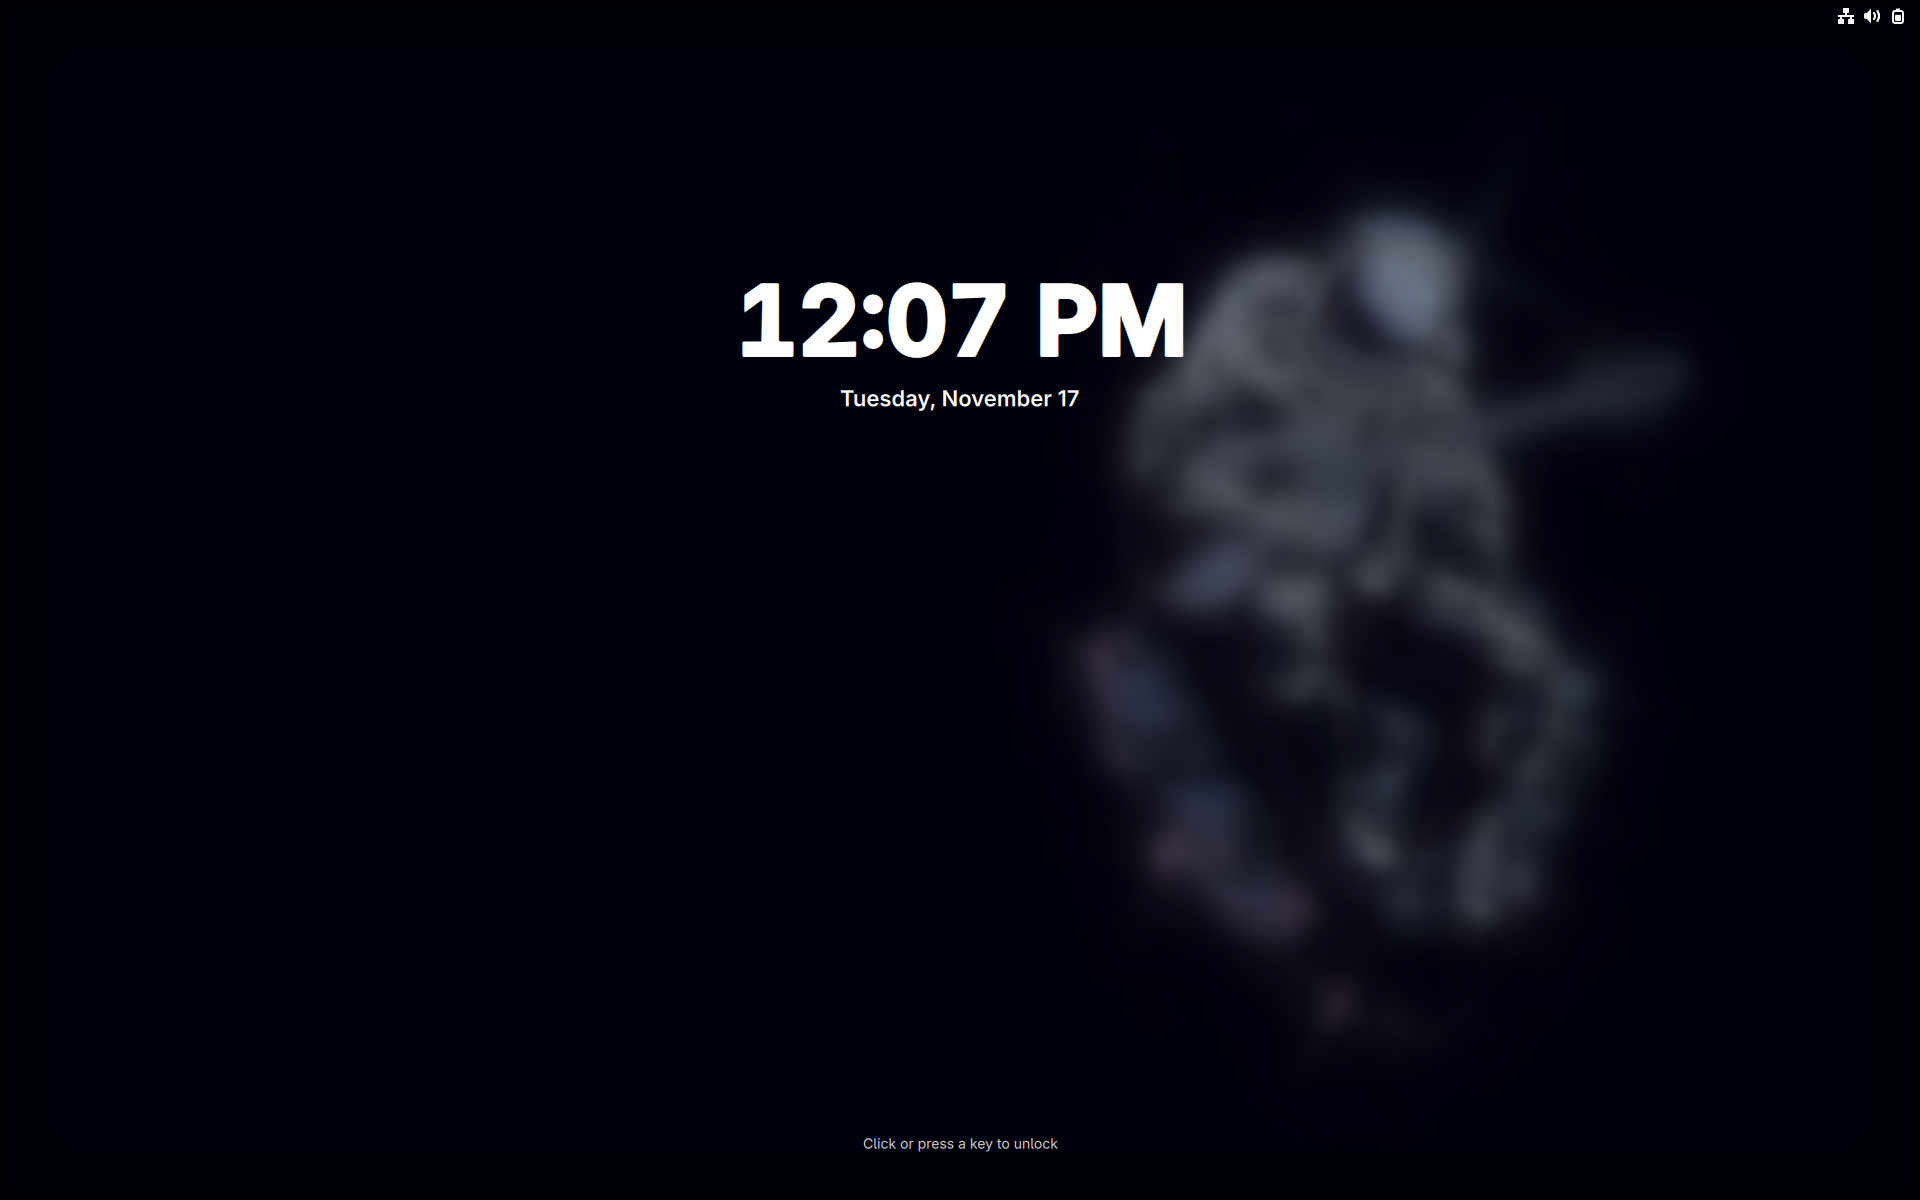
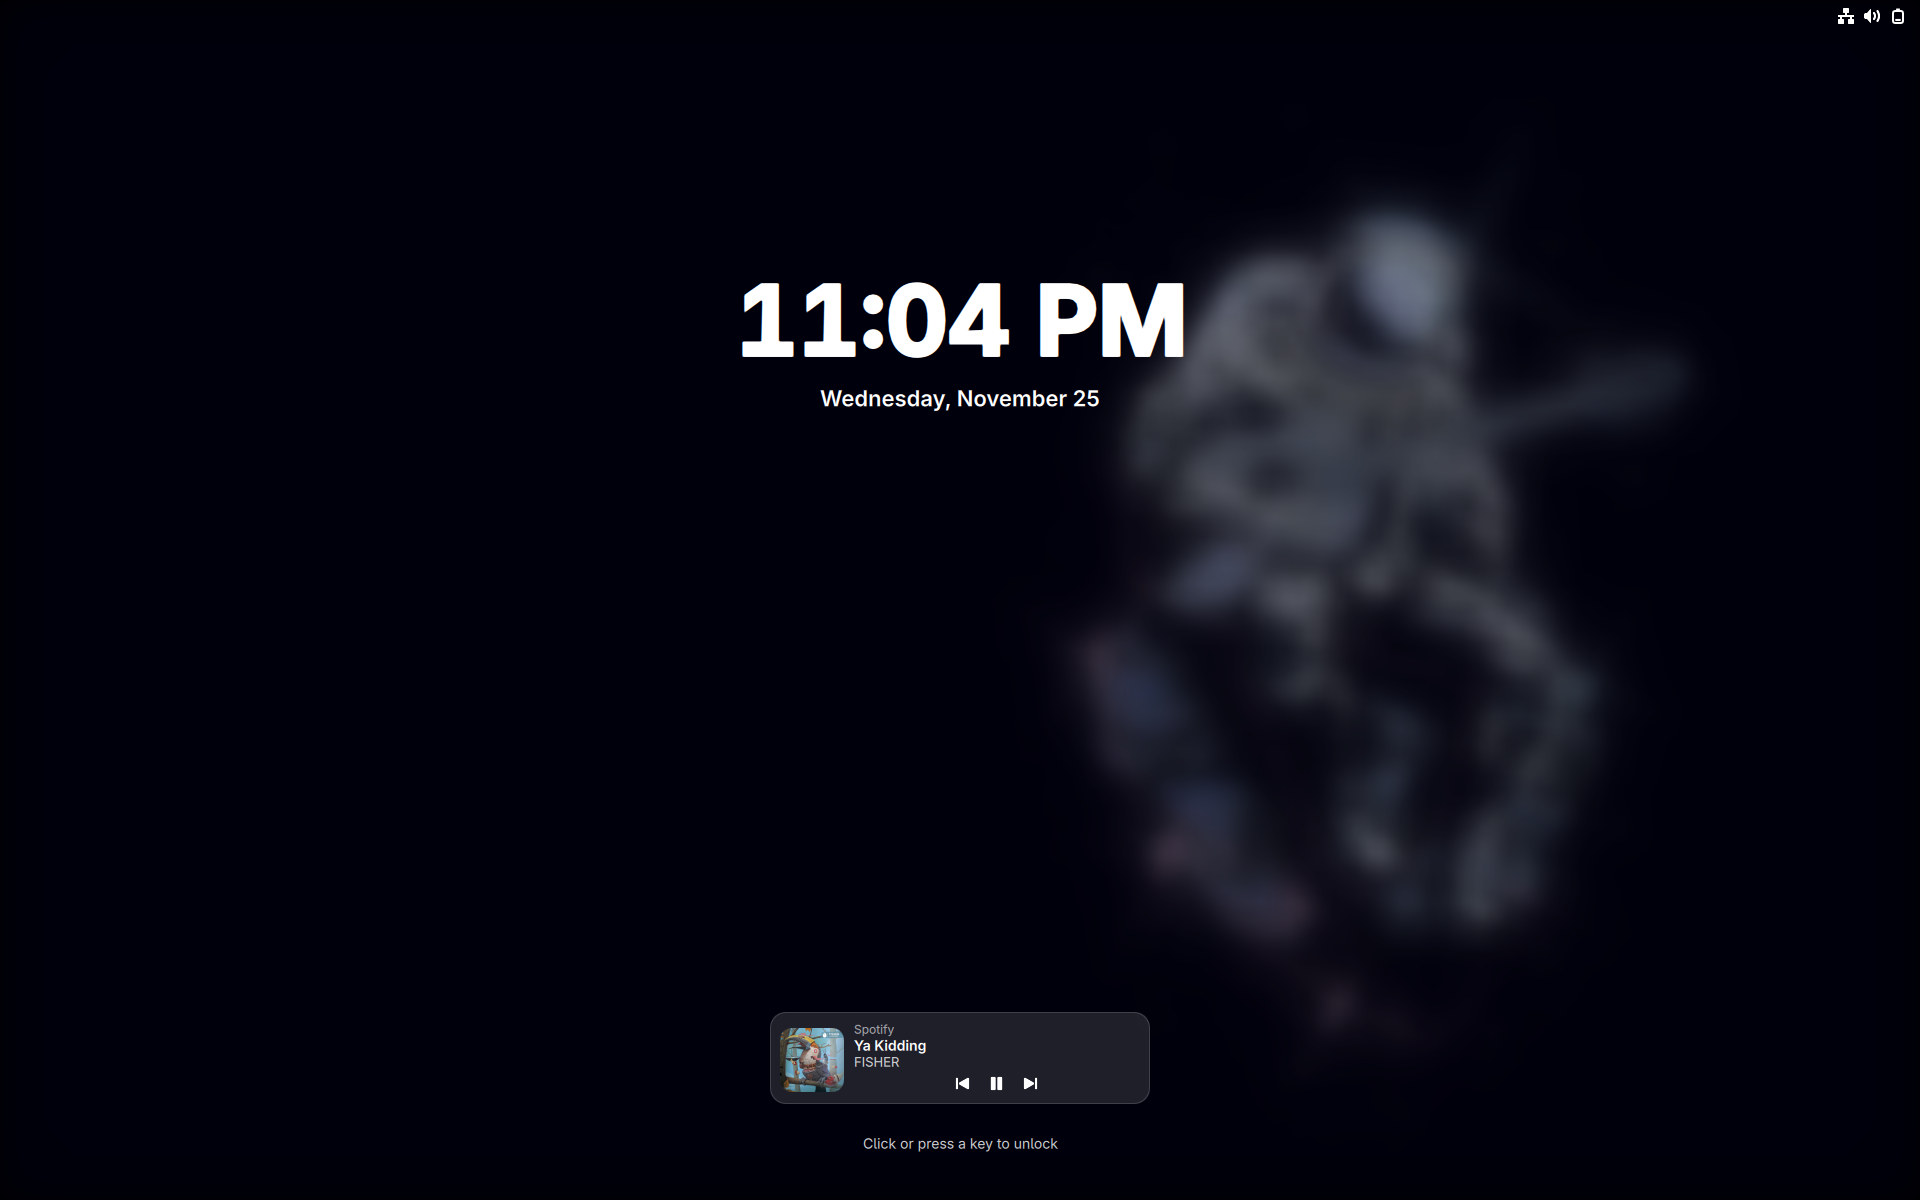
chore: adding screenshots for spotlight

Changed region(s): [[0.375, 0.8325, 0.625, 0.925], [0.4062, 0.2158, 0.5625, 0.3392]]

diff --git a/README.md b/README.md
@@ -22,6 +22,8 @@ commands with `umbriel msg`.
 | ![Quick settings](docs/screenshots/quick_settings.png)<br>**Quick settings** | ![Calendar and notifications](docs/screenshots/notification_and_calendar_center.png)<br>**Calendar and notifications** |
 | ![Notification toasts](docs/screenshots/desktop_notifications.png)<br>**Notification toasts** | ![Screenshot panel](docs/screenshots/screenshot_tool.png)<br>**Screenshot panel** |
 | ![Lock screen](docs/screenshots/lock_screen.png)<br>**Lock screen** | ![Settings](docs/screenshots/settings.png)<br>**Settings** |
+| ![Spotlight: app search](docs/screenshots/spotlight_apps.png)<br>**Spotlight: app search** | ![Spotlight: file search](docs/screenshots/spotlight_files.png)<br>**Spotlight: file search** |
+| ![Spotlight: power actions](docs/screenshots/spotlight_power_menu.png)<br>**Spotlight: power actions** | |
 
 > The RAM usage in the top bar comes from my other open apps (Waterfox, Chrome,
 > Slack) — not from the shell itself.
